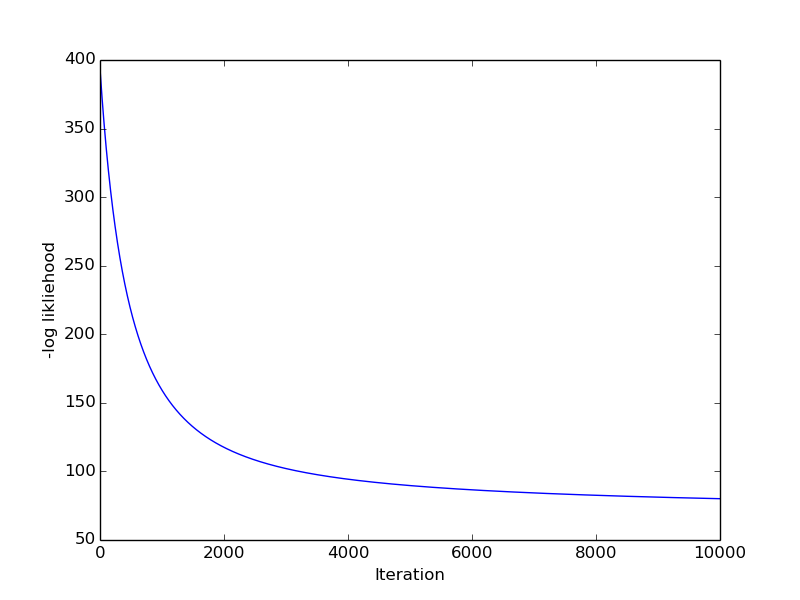
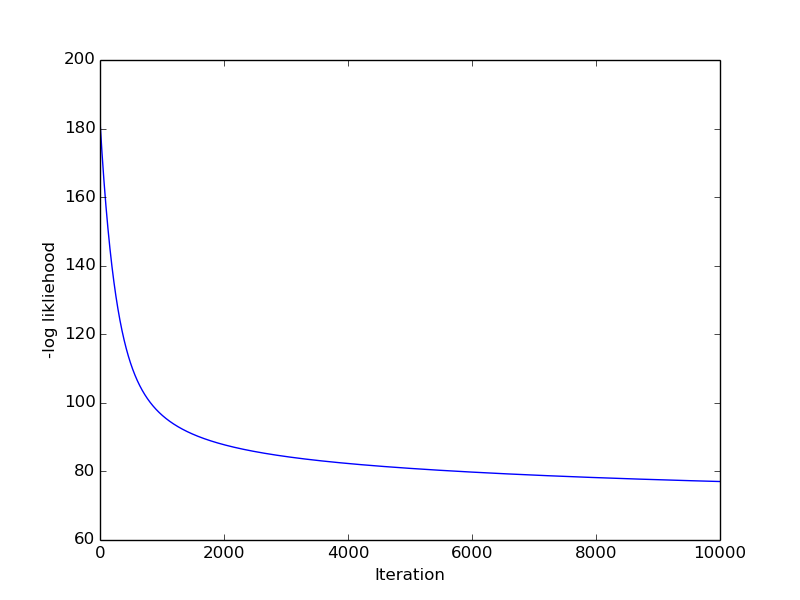
Small changes

diff --git a/week2/stocastic.py b/week2/stocastic.py
@@ -7,10 +7,10 @@ import matplotlib.pyplot as plt
 def calc_w(X, b):
     return 1/(1 + np.exp(-np.dot(X, b)))
 
-#Calculate the (vector) slope of the cost function for a given X, y and b
-def calc_gradient(X, y, b):
-    w = calc_w(X, b)
-    return np.dot(X.transpose(), (w-y))
+#Calculate the slope of the cost function for a single data point, i
+def calc_gradient(X, y, b, i):
+    w = calc_w(X[i], b)
+    return np.dot(X[i], (w-y[i]))
 
 #Calculate likliehood function
 def calc_l(X, y, b):
@@ -18,11 +18,34 @@ def calc_l(X, y, b):
     l = -(np.dot(y.transpose(), np.log(w))+np.dot((1-y).transpose(), np.log(1-w)))
     return l
 
-#Take the matrix X, vectors y and b, an integer number of iterations and a float step size. Returns a fit value of b. Give the likliehood at each step
-def run_descent(X, y, b, num_iter, step_size, l):
-    for i in range(num_iter):
-        b -= calc_gradient(X, y, b)*step_size
+#Check the convergance of the log likliehood function within some criteria, e. Return true if so
+def test_converge(l, e):
+    if len(l)>3:
+        if (l[len(l)-1]-l[len(l)-2])/l[len(l)-1] < e:
+            return True
+    else:
+        return False
+
+#shuffle data after each epoch, return updated X, y
+def shuffle(X, y):
+    p = np.random.permutation(len(y))
+    return X[p], y[p]
+
+#Perform gradient descent on b. Give the likliehood at each step.  Select a single data point each time, shuffle after running through entire set
+def run_descent(X, y, b, e, step_size, l):
+    #for i in range(num_iter):
+    i = 0
+    while not test_converge(l, e):
+        j = i%len(y)
+        if j==0:
+            X, y = shuffle(X, y)
+        b -= calc_gradient(X, y, b, j)*step_size
         l.append(calc_l(X, y, b))
+        
+        i+=1
+        if i>1000000:
+            break
+
     return b, l
 
 #Test if the b found correctly predicts B or M, given X, y and calculated b. Return fraction of success
@@ -32,7 +55,7 @@ def predict_acc(X, y, b):
     p = []
 
     xb = np.dot(X, b)
-    xb = xb/np.linalg.norm(xb, ord=1)
+    #xb = xb/np.linalg.norm(xb, ord=1)
     w_pred = 1/(1 + np.exp(-xb))
 
     for i in range(len(w_pred)):
@@ -55,26 +78,24 @@ y = dataSet[1].map({'M':1, 'B':0})
 y = y.values
 #Use the rest for X. Scale X by the size of the vector
 X = dataSet.drop(1, 1).values
-X = X/np.linalg.norm(X, ord=1)
+#X = X/np.linalg.norm(X, ord=1)
 
-b = np.random.rand(len(X[0]))
-b = b/np.linalg.norm(b, ord=1)
+b_orig = np.random.rand(len(X[0]))
+#b = b/np.linalg.norm(b, ord=1)
 
 #Run deepest descent for a few different numbers of iterations. Plot the l that results. Print the accuracy of the calculated b vector
-for iter in [100, 1000, 10000, "newton"]:
+for step_size in [0.001, 0.01, 0.1, 1, 10]:
     l = []
-    if iter=="newton":
-        b,l = run_newton(X, y, b, 10000, l)
-    else:
-        b, l = run_descent(X, y, b, iter, 3000, l)
+
+    b, l = run_descent(X, y, b_orig, 0.001, step_size, l)
 
     plt.figure()
     plt.plot(l)
 
     plt.ylabel('-log likliehood')
     plt.xlabel('Iteration')
-    plt.savefig('stocastic_'+str(iter)+'.png', format = 'png')
+    plt.savefig('result_'+str(step_size)+'.png', format = 'png')
 
     b = b/np.linalg.norm(b, ord=1)
-    print "Number of iterations: "+str(iter)
+    print "Step Size: "+str(step_size)
     print "Accuracey of prediction: "+str(predict_acc(X, y, b))

diff --git a/week1/ex2.py b/week1/ex2.py
@@ -74,16 +74,16 @@ y = y.values
 X = dataSet.drop(1, 1).values
 X = X/np.linalg.norm(X, ord=1)
 
-b = np.random.rand(len(X[0]))
-b = b/np.linalg.norm(b, ord=1)
+b_orig = np.random.rand(len(X[0]))
+#b = b/np.linalg.norm(b, ord=1)
 
 #Run deepest descent for a few different numbers of iterations. Plot the l that results. Print the accuracy of the calculated b vector
 for iter in [100, 1000, 10000, "newton"]:
     l = []
     if iter=="newton":
-        b,l = run_newton(X, y, b, 10000, l)
+        b,l = run_newton(X, y, b_orig, 10000, l)
     else:
-        b, l = run_descent(X, y, b, iter, 3000, l)
+        b, l = run_descent(X, y, b_orig, iter, 3000, l)
 
     plt.figure()
     plt.plot(l)
